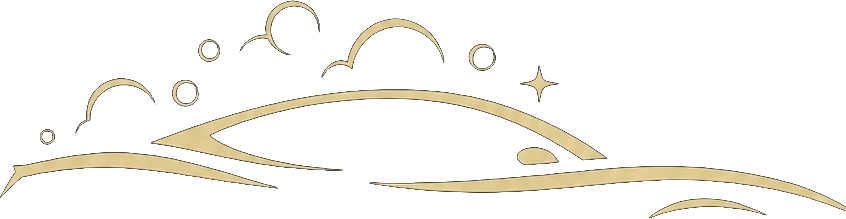
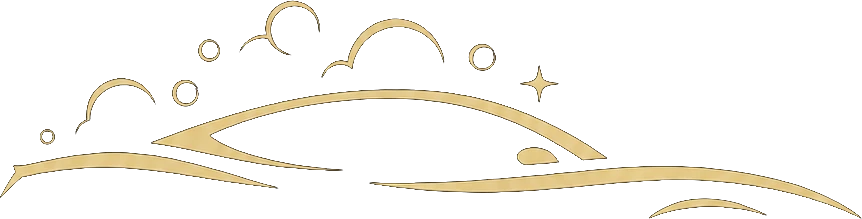
Rebuild gallery as 'The Detailing Experience' craft showcase
Owner uploaded professional stock detailing photos + a cleaner logo.
Reframed the section away from 'Before & After / real results from real
Houston vehicles' (which would misrepresent stock as our jobs) to an
honest craft/experience showcase — standard practice for a service site:

- Four graded craft tiles (wheels, interior detail, hand-finished paint,
  spotless cabin), color-matched to the dark/gold theme, WebP, lazy-loaded
- Logo tile → Instagram; statement/CTA tile 'This standard, in your
  driveway → Book'
- Sharpened the hero emblem + favicon/og image from the higher-res logo
- Retired the interim mat photos (originals kept in assets/gallery/originals)

No claim that these specific vehicles were Esplendor jobs.

Claude-Session: https://claude.ai/code/session_01DagYAXUsHWFQdPueX5TNVh

diff --git a/index.html b/index.html
@@ -1411,43 +1411,43 @@
 <!-- ═══ GALLERY ═══ -->
 <section class="gallery" id="gallery">
   <p class="section-label fade-up">
-    <span class="en">Our Work</span>
-    <span class="es">Nuestro Trabajo</span>
+    <span class="en">The Experience</span>
+    <span class="es">La Experiencia</span>
   </p>
   <h2 class="section-title fade-up delay-1">
-    <span class="en">Before &amp; After</span>
-    <span class="es">Antes y Después</span>
+    <span class="en">The Detailing Experience</span>
+    <span class="es">La Experiencia del Detallado</span>
   </h2>
   <p class="section-sub fade-up delay-2">
-    <span class="en">Real results from real Houston vehicles. Follow us on Instagram for more.</span>
-    <span class="es">Resultados reales de vehículos reales en Houston. Síguenos en Instagram para ver más.</span>
+    <span class="en">Every surface — inside, out, and everything between — finished with meticulous care.</span>
+    <span class="es">Cada superficie — por dentro, por fuera y todo lo demás — terminada con esmero.</span>
   </p>
 
   <div class="gallery-grid fade-up delay-3">
     <div class="gallery-item">
-      <img src="/assets/gallery/before-rear.webp" alt="Truck floor before Esplendor Detailing" loading="lazy" />
-      <span class="gallery-badge"><span class="en">Before</span><span class="es">Antes</span></span>
+      <img src="/assets/gallery/craft-wheel.webp" alt="Wheel and tire deep cleaned to a gloss finish" loading="lazy" />
+      <span class="gallery-badge"><span class="en">Wheels &amp; Tires</span><span class="es">Ruedas y Llantas</span></span>
     </div>
     <div class="gallery-item">
-      <img src="/assets/gallery/after-rear.webp" alt="Truck floor restored to spotless after detailing" loading="lazy" />
-      <span class="gallery-badge"><span class="en">After</span><span class="es">Después</span></span>
+      <img src="/assets/gallery/craft-interior-detail.webp" alt="Interior surfaces detailed by hand" loading="lazy" />
+      <span class="gallery-badge"><span class="en">Interior Care</span><span class="es">Cuidado Interior</span></span>
     </div>
     <a class="gallery-item" href="https://instagram.com/esplendordetailing" target="_blank" rel="noopener" style="text-decoration:none;">
       <img src="/assets/gallery/logo.webp" alt="Esplendor Detailing — follow us on Instagram" loading="lazy" />
       <span class="gallery-badge">@esplendordetailing</span>
     </a>
     <div class="gallery-item">
-      <img src="/assets/gallery/mats-sun.webp" alt="Restored floor mats finished to showroom condition" loading="lazy" />
-      <span class="gallery-badge"><span class="en">Restored</span><span class="es">Como Nuevo</span></span>
+      <img src="/assets/gallery/craft-hood.webp" alt="Paint hand-finished with a microfiber towel" loading="lazy" />
+      <span class="gallery-badge"><span class="en">Hand-Finished</span><span class="es">Acabado a Mano</span></span>
     </div>
     <div class="gallery-item">
-      <img src="/assets/gallery/texture.webp" alt="Close-up of deep-cleaned floor mat texture" loading="lazy" />
-      <span class="gallery-badge"><span class="en">Every Detail</span><span class="es">Cada Detalle</span></span>
+      <img src="/assets/gallery/craft-cabin.webp" alt="Spotless detailed vehicle cabin" loading="lazy" />
+      <span class="gallery-badge"><span class="en">Spotless Cabin</span><span class="es">Interior Impecable</span></span>
     </div>
     <a class="gallery-item gallery-statement" href="#booking">
       <div>
-        <div class="gs-title en">Your vehicle,<br>photographed next.</div>
-        <div class="gs-title es">Tu vehículo,<br>el próximo en brillar.</div>
+        <div class="gs-title en">This standard,<br>in your driveway.</div>
+        <div class="gs-title es">Este nivel,<br>en tu entrada.</div>
         <div class="gs-sub en">Reserve your detail →</div>
         <div class="gs-sub es">Reserva tu detallado →</div>
       </div>